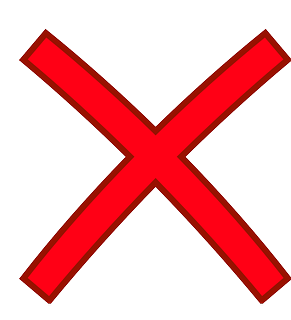
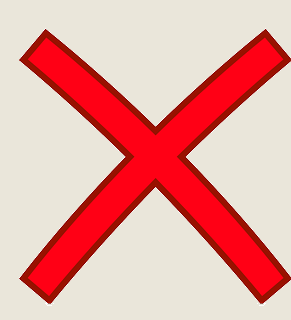
change backgroun and layout

diff --git a/public/stylesheets/portfolio-item.css b/public/stylesheets/portfolio-item.css
@@ -6,7 +6,7 @@
 
 body {
   padding-top: 40px;
-  background-color:#B4B7BA
+  background-color:#EAE6DA
 }
 
 @media (min-width: 992px) {
@@ -16,7 +16,7 @@ body {
 }
 .content{
   margin-top: 20px;
-  background-color:white
+  background-color:#EAE6DA
 }
 .list-group-item:hover{
   cursor: pointer;
@@ -28,6 +28,8 @@ body {
 body{
    background-image:url('../back.jpg') !important;
 
-
-
  }
+.border-top,.border-bottom,.border,.border-left,.border-right{
+  border-color: lightgray !important;
+
+}

diff --git a/public/stylesheets/basics.css b/public/stylesheets/basics.css
@@ -12,3 +12,6 @@
 .lastResult{
     font-weight: bold;
 }
+.list-group-item{
+    background: #EAE6DA ;
+}
